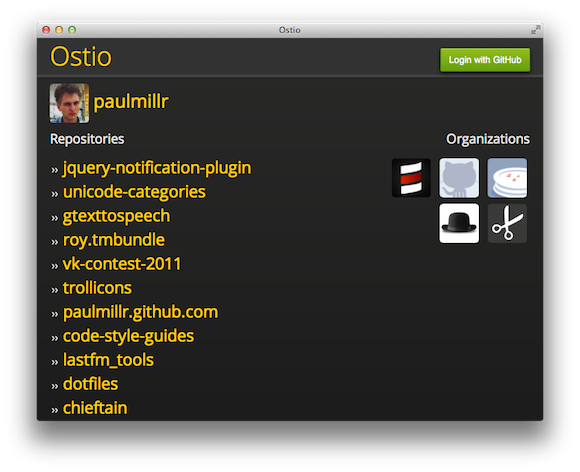
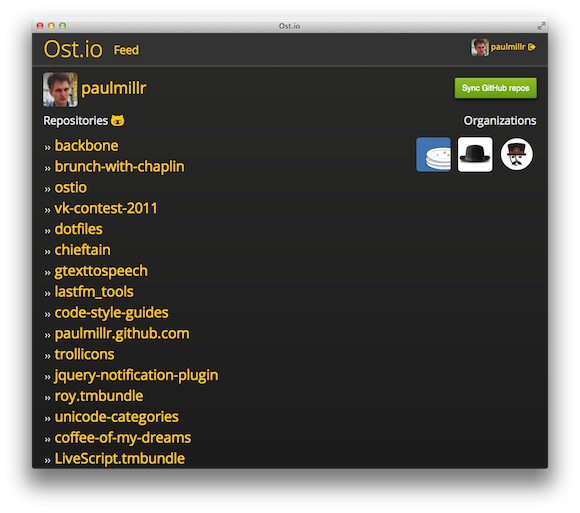
Update ostio & snipit screenshots, remove salon.io.

Changed region(s): [[0.031, 0.0297, 0.9621, 0.9788]]

diff --git a/index.html b/index.html
@@ -546,32 +546,28 @@
   </a>
 </p>
 
-<h2>ChainCal</h2>
-<p><a href="http://chaincalapp.com">ChainCal</a> is an iPhone app that helps you to track your daily goals in a minimalist, visual way. The app is written almost entirely in CoffeeScript, Backbone handles the models, collections and views, and persistence is done with a Backbone.sync localStorage adapter. Templates are written in Eco and the app is packaged with Brunch and deployed with Phonegap.</p>
-
-<p>
-  <a href="http://chaincalapp.com">
-    <img src="images/screenshots/chaincal.png" alt="Chaincal" />
-  </a>
-</p>
-
-<h2>Salon.io</h2>
-<p><a href="http://salon.io">Salon.io</a> provides a space where photographers, artists and designers freely arrange their visual art on virtual walls. Salon.io runs on Rails, but does not use much of the traditional stack, as the entire frontend is designed as a single page web app, using Backbone.js and CoffeeScript.</p>
-
-<p>
-  <a href="http://salon.io">
-    <img src="images/screenshots/salon.png" alt="Salon" />
-  </a>
-</p>
-
 <h2>Snip.it</h2>
 <p>
   <a href="http://snip.it">Snip.it</a> help you collect your thoughts and your opinions about your favorite topics, and discover others who care about the things you care about.
 </p>
 
 <p>
+  Their client app is built with Brunch on top of Chaplin &amp; Backbone.
+  The backend is Rails.
+</p>
+
+<p>
   <a href="http://snip.it">
     <img src="images/screenshots/snipit.png" alt="Snip.it" />
+  </a>
+</p>
+
+<h2>ChainCal</h2>
+<p><a href="http://chaincalapp.com">ChainCal</a> is an iPhone app that helps you to track your daily goals in a minimalist, visual way. The app is written almost entirely in CoffeeScript, Backbone handles the models, collections and views, and persistence is done with a Backbone.sync localStorage adapter. Templates are written in Eco and the app is packaged with Brunch and deployed with Phonegap.</p>
+
+<p>
+  <a href="http://chaincalapp.com">
+    <img src="images/screenshots/chaincal.png" alt="Chaincal" />
   </a>
 </p>
 
